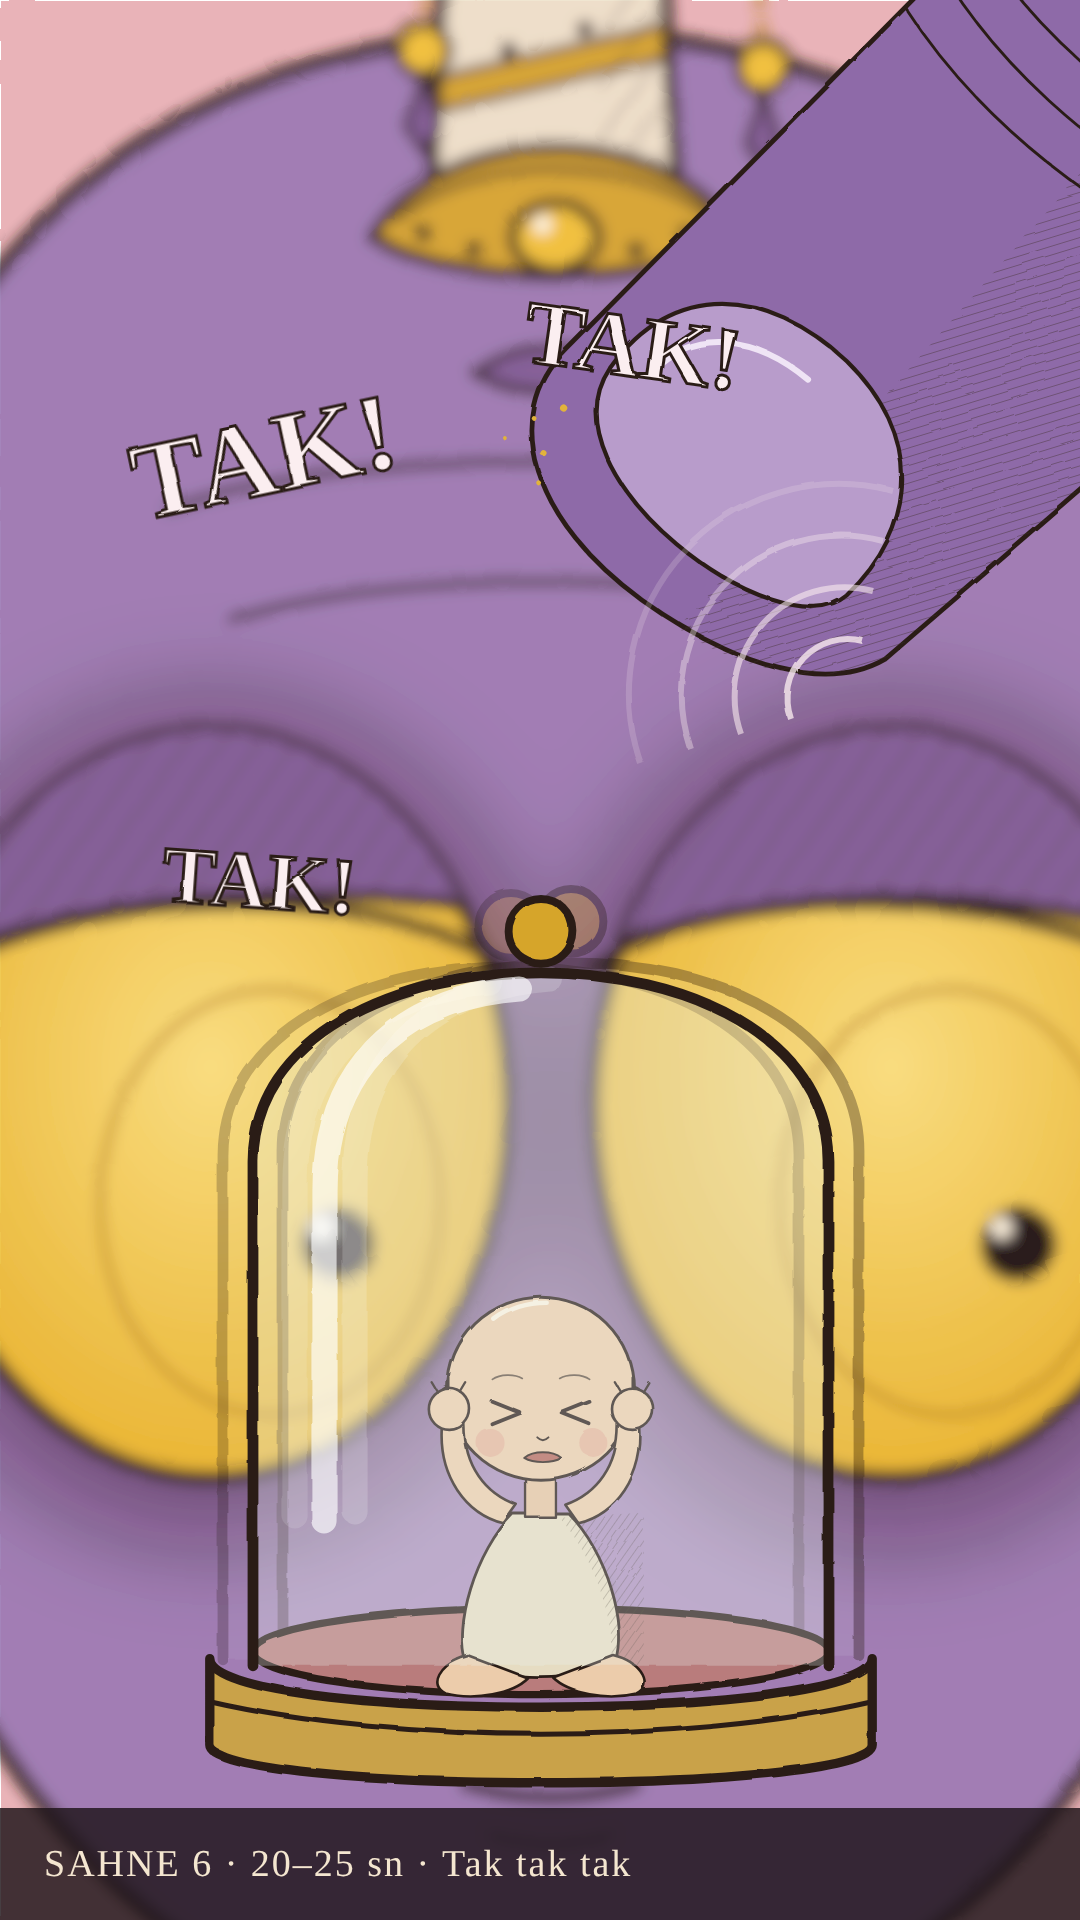
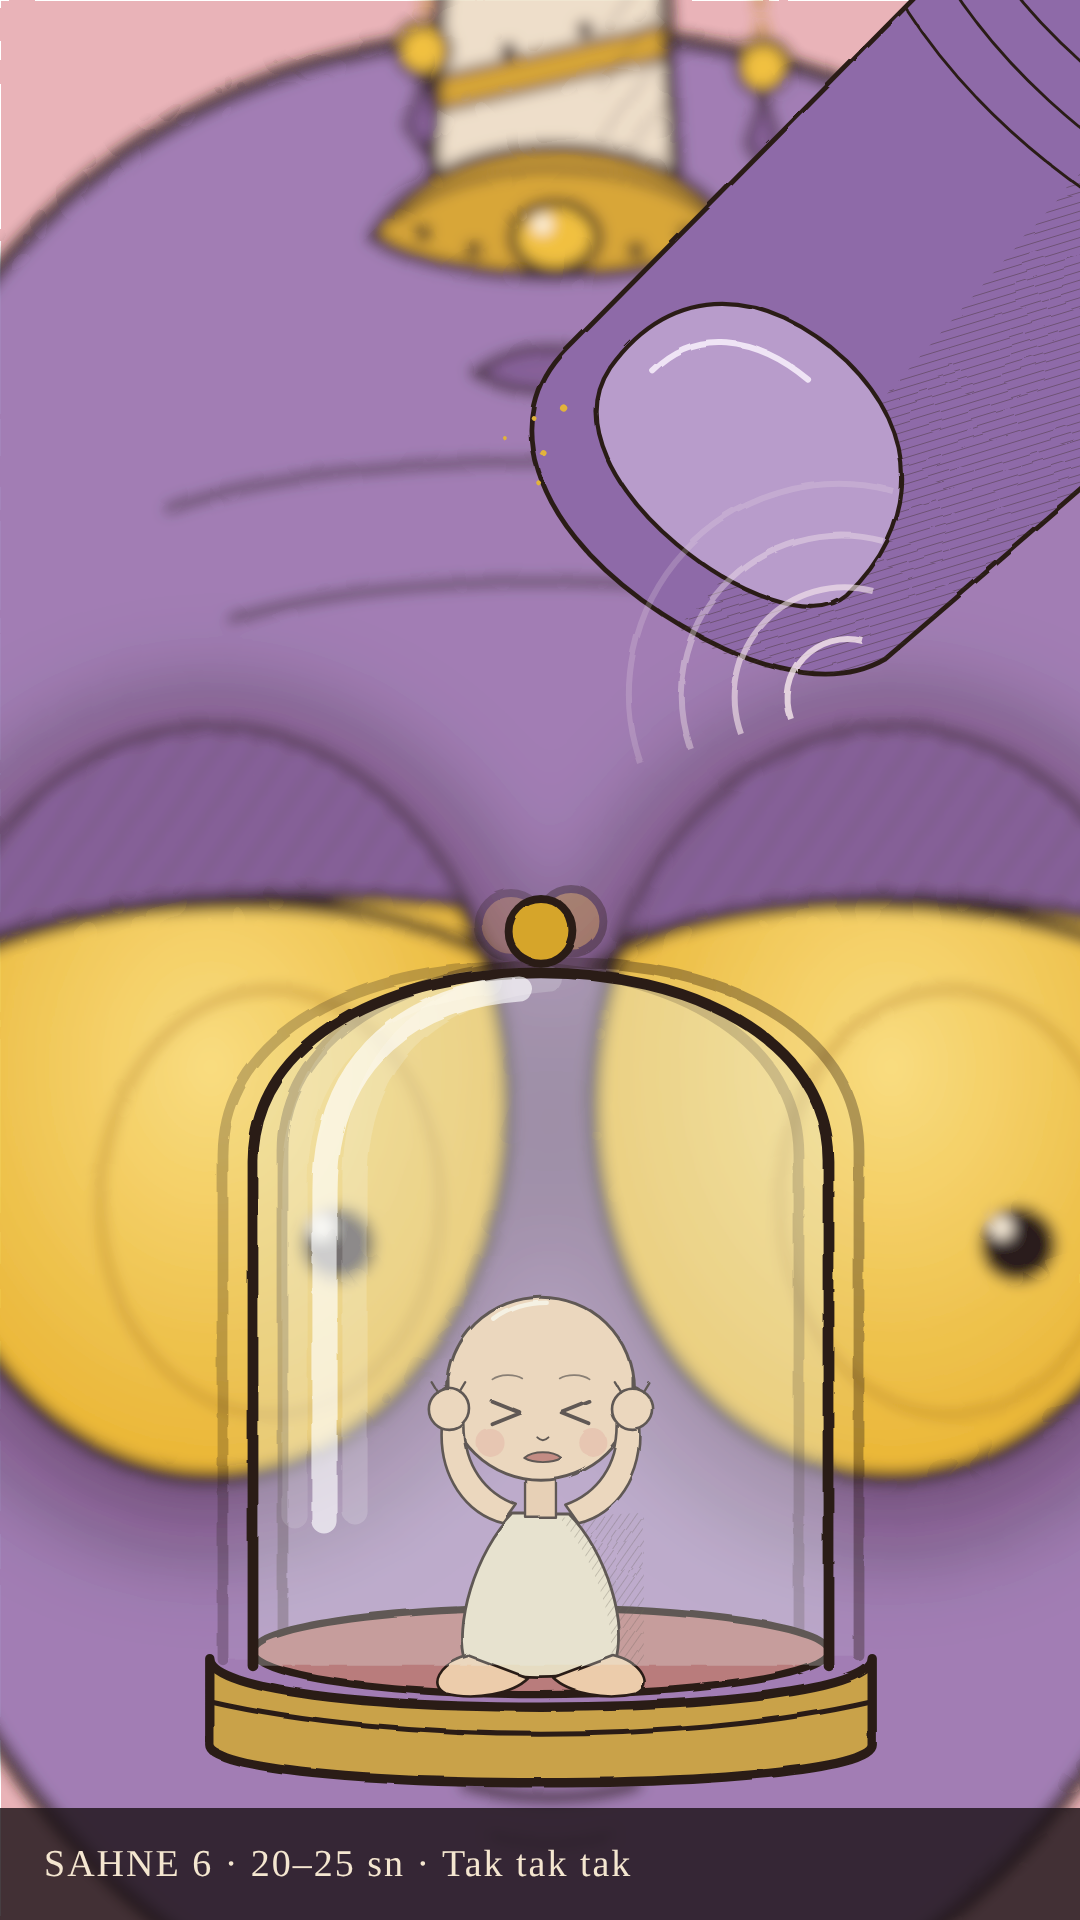
Storyboard: remove sound-effect text from scenes
Claude-Session: https://claude.ai/code/session_014pgZYAt28U3JpX5acrECz9

Changed region(s): [[0.1222, 0.1875, 0.3667, 0.2812], [0.4889, 0.1562, 0.7028, 0.2188], [0.1528, 0.4375, 0.3361, 0.5]]

diff --git a/bolum1/sahneler_olustur.py b/bolum1/sahneler_olustur.py
@@ -237,7 +237,6 @@ def sahne1():
     for x, y, w, rot in [(900, 420, 170, -25), (480, 620, 150, 30), (760, 860, 160, -10), (300, 980, 140, 60), (940, 960, 150, 15)]:
         b += speed_lines(x, y - 60)
         b += f'<g transform="rotate({rot} {x} {y})">' + use('baby', x - w / 2, y - w / 4, w, w / 2) + '</g>'
-    b += f'<text x="640" y="1290" font-family="Georgia, serif" font-weight="bold" font-size="64" fill="#fbeef0" stroke="{INK}" stroke-width="2.5">tak!</text>'
     b += dust(25, 0, 1080, 500, 1750, 1)
     return frame(b, 1, '0–3 sn', 'Gökten bebekler düşüyor')
 
@@ -278,7 +277,6 @@ def sahne3():
     # "pof" bulutçukları ve hareket çizgileri
     for x, y, r in [(660, 1240, 34), (700, 1290, 24), (630, 1300, 20)]:
         b += f'<circle cx="{x}" cy="{y}" r="{r}" fill="#fbeef0" stroke="{INK}" stroke-width="2.2"/>'
-    b += f'<text x="580" y="1160" font-family="Georgia, serif" font-weight="bold" font-size="70" fill="#fbeef0" stroke="{INK}" stroke-width="2.5">pof!</text>'
     # tekrar işareti: hayalet Ilo silüetleri (1. ve 2. itiş)
     b += f'<g opacity="0.22">{ilo(800, 1600, 300)}</g>'
     b += tufts(6, -20, 1060, 1600, 1800, 80, 130, 7)
@@ -312,7 +310,6 @@ def sahne5():
     b += ilo(470, 1720, 1250, 'ilo_gul')
     # elin camdaki buğusu
     b += '<ellipse cx="770" cy="1000" rx="60" ry="70" fill="#ffffff" opacity="0.35"/>'
-    b += f'<text x="60" y="1560" font-family="Georgia, serif" font-style="italic" font-size="60" fill="#fbeef0" stroke="{INK}" stroke-width="2">kıkır kıkır</text>'
     return frame(b, 5, '16–20 sn', 'Ilo gülüyor')
 
 
@@ -331,8 +328,6 @@ def sahne6():
     # darbe halkaları ve ses yazıları
     b += ''.join(f'<path d="M{850 - r} {700 + r * 0.3:.0f} A{r} {r} 0 0 1 {850 + r * 0.2:.0f} {700 - r}" fill="none" stroke="#fbeef0" stroke-width="6" opacity="{1 - r / 260:.2f}"/>'
                  for r in [60, 110, 160, 210])
-    for x, y, s, rot in [(140, 520, 110, -12), (520, 360, 90, 8), (160, 900, 80, 4)]:
-        b += f'<text x="{x}" y="{y}" font-family="Georgia, serif" font-weight="bold" font-size="{s}" fill="#fbeef0" stroke="{INK}" stroke-width="3" transform="rotate({rot} {x} {y})">TAK!</text>'
     return frame(b, 6, '20–25 sn', 'Tak tak tak')
 
 
@@ -368,7 +363,6 @@ def sahne7():
     b += f'<path d="M604 690 C596 740 584 790 568 840" fill="none" stroke="#f2c230" stroke-width="3" stroke-dasharray="4 10"/>'
     # karanlığa kapanış
     b += '<rect width="1080" height="1920" fill="url(#vignette)"/>'
-    b += f'<text x="660" y="600" font-family="Georgia, serif" font-style="italic" font-weight="bold" font-size="80" fill="#fbeef0" stroke="{INK}" stroke-width="2.4">çıt…</text>'
     return frame(b, 7, '25–30 sn', 'Çatlak · Cliffhanger')
 
 
